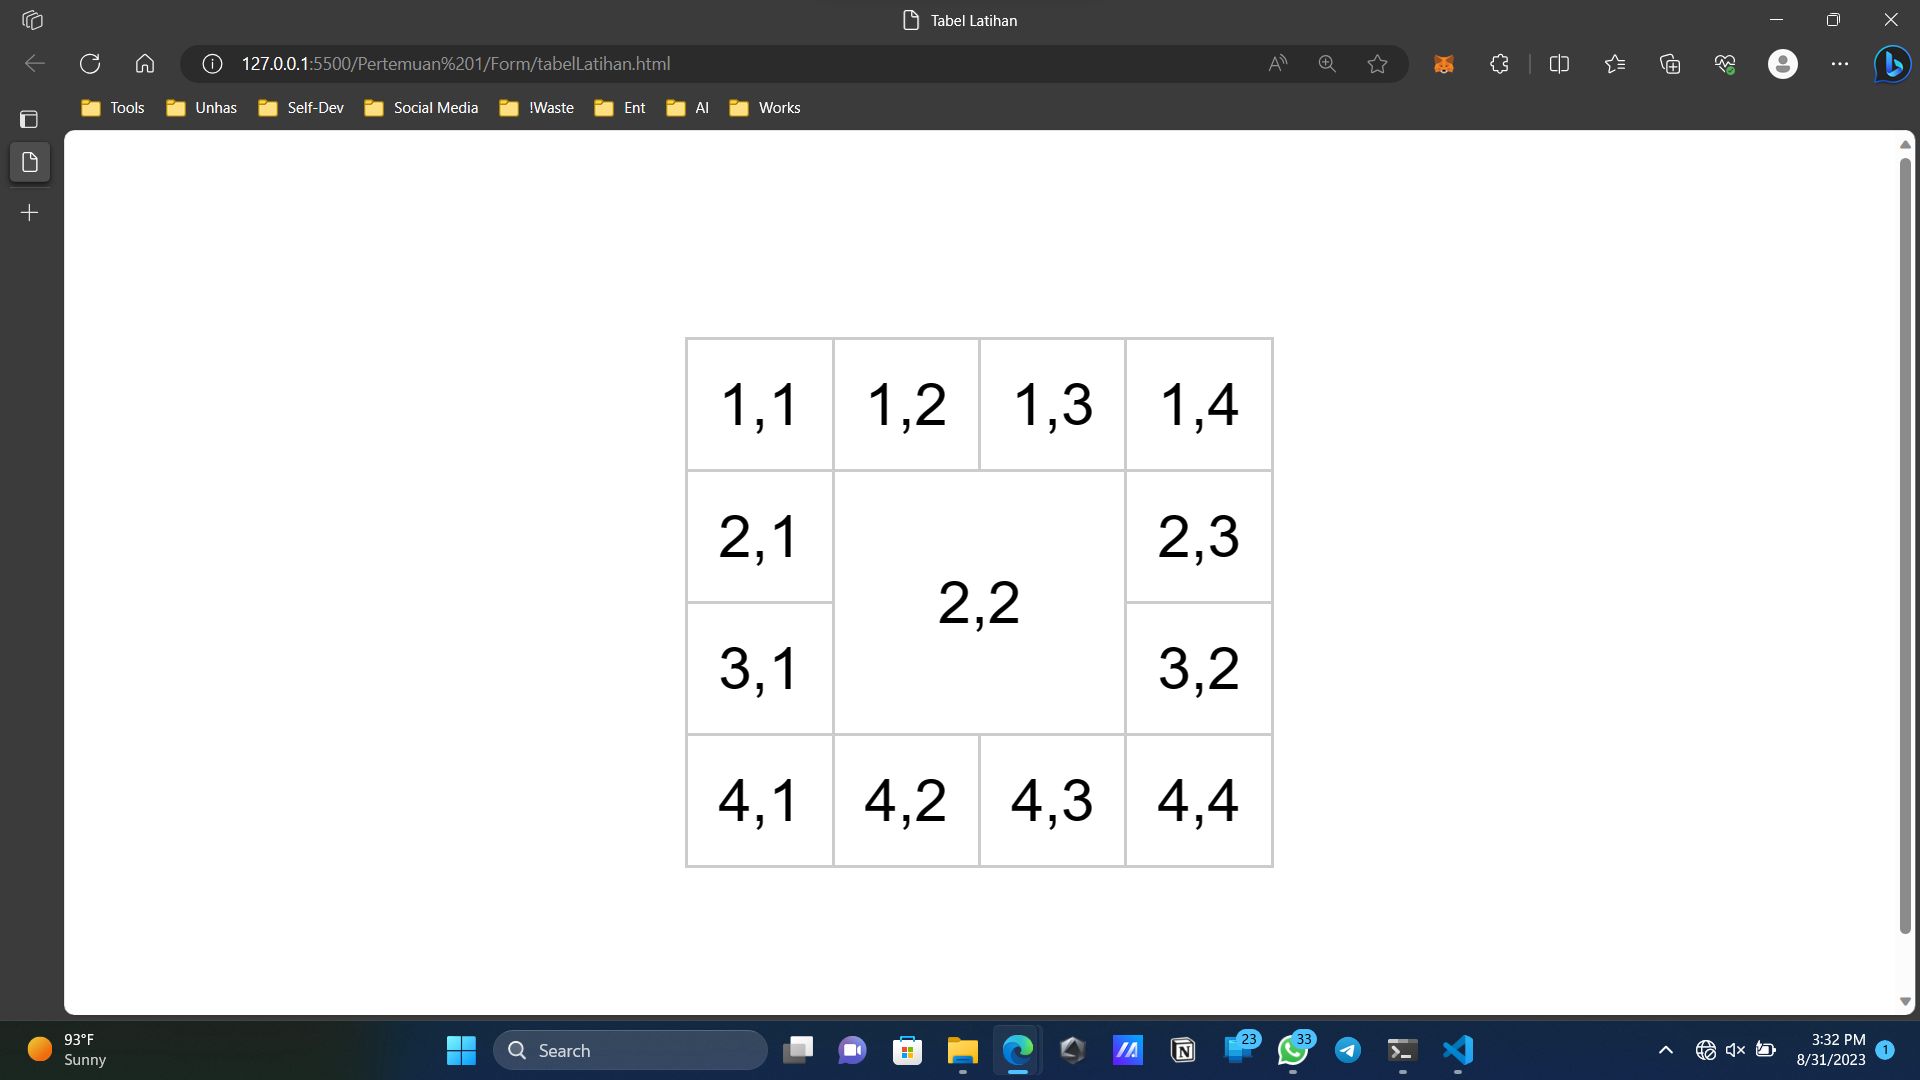
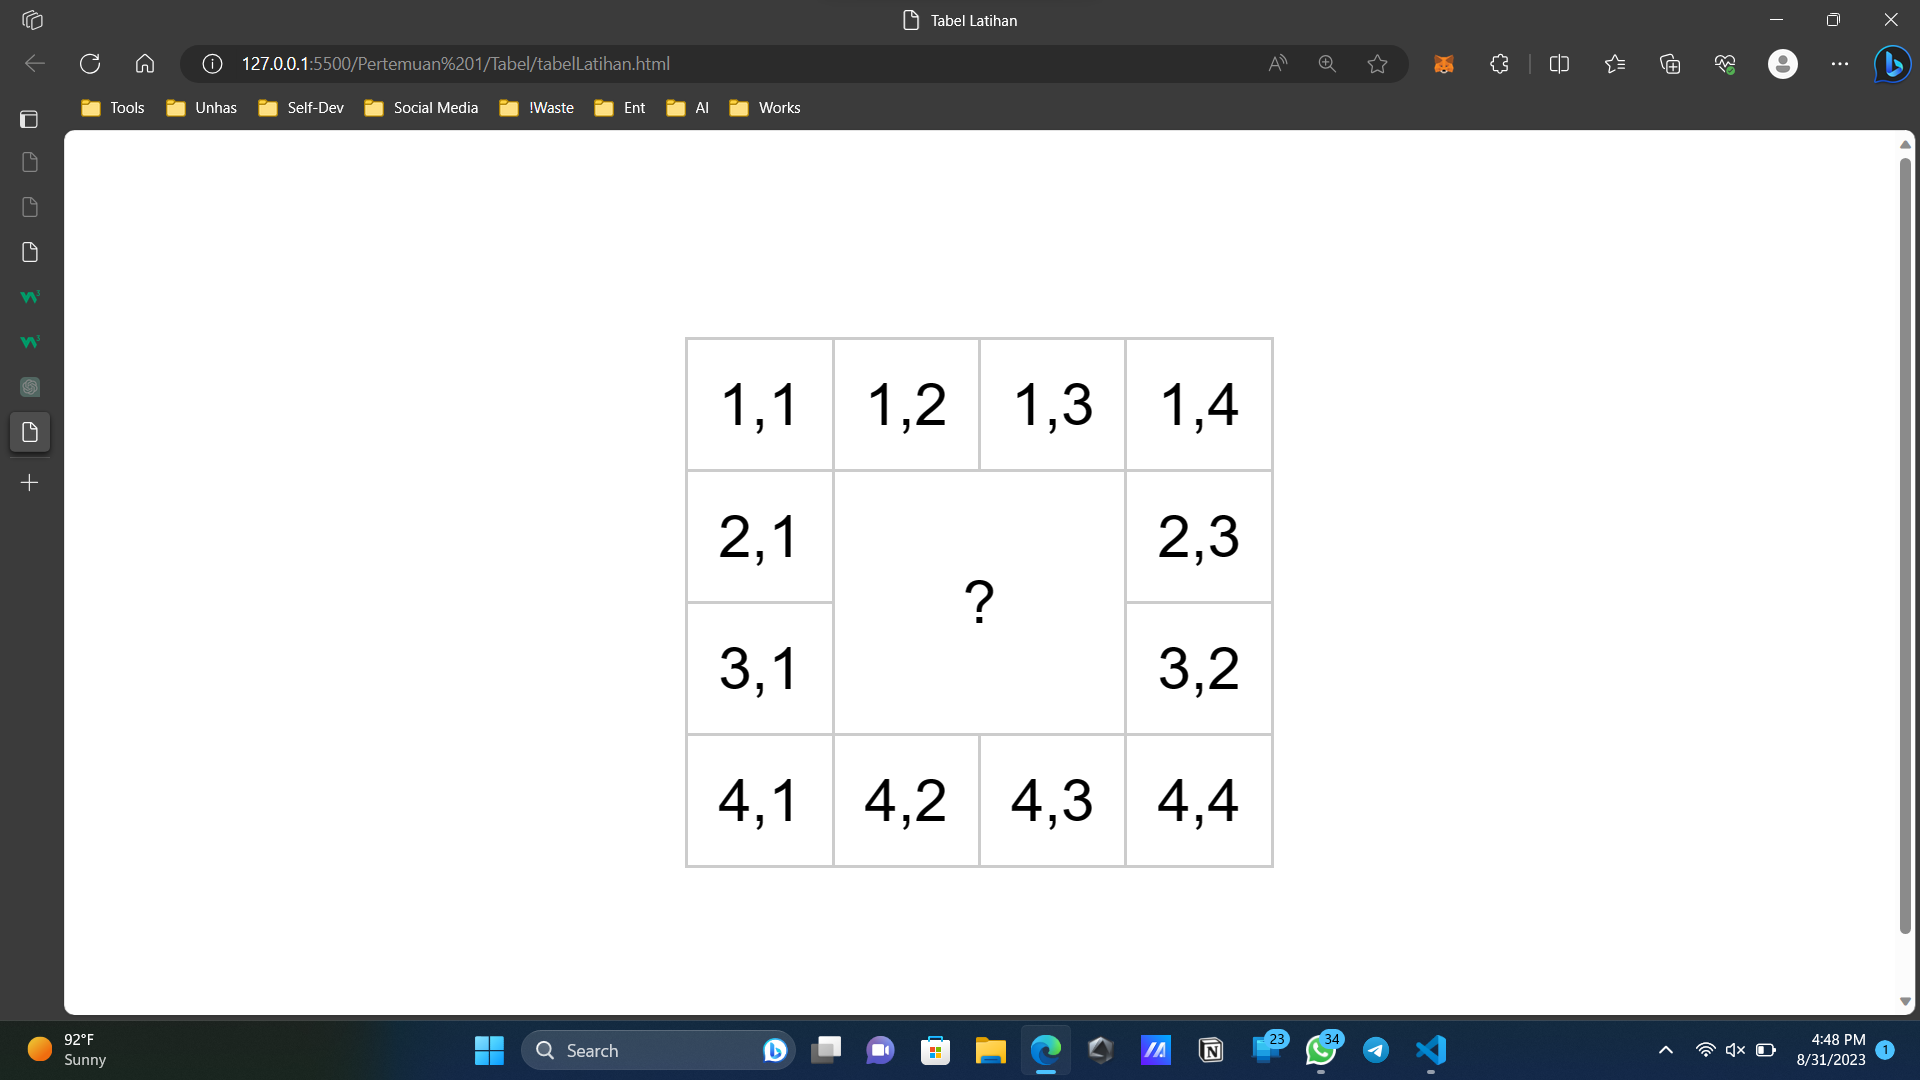
update table field

diff --git a/Pertemuan 1/Tabel/tabelLatihan.html b/Pertemuan 1/Tabel/tabelLatihan.html
@@ -26,7 +26,7 @@
   </head>
   <body>
     <table>
-      <tr> 
+      <tr>
         <td>1,1</td>
         <td>1,2</td>
         <td>1,3</td>
@@ -34,7 +34,7 @@
       </tr>
       <tr>
         <td>2,1</td>
-        <td colspan="2" rowspan="2">2,2</td>
+        <td colspan="2" rowspan="2">?</td>
         <td>2,3</td>
       </tr>
       <tr>
